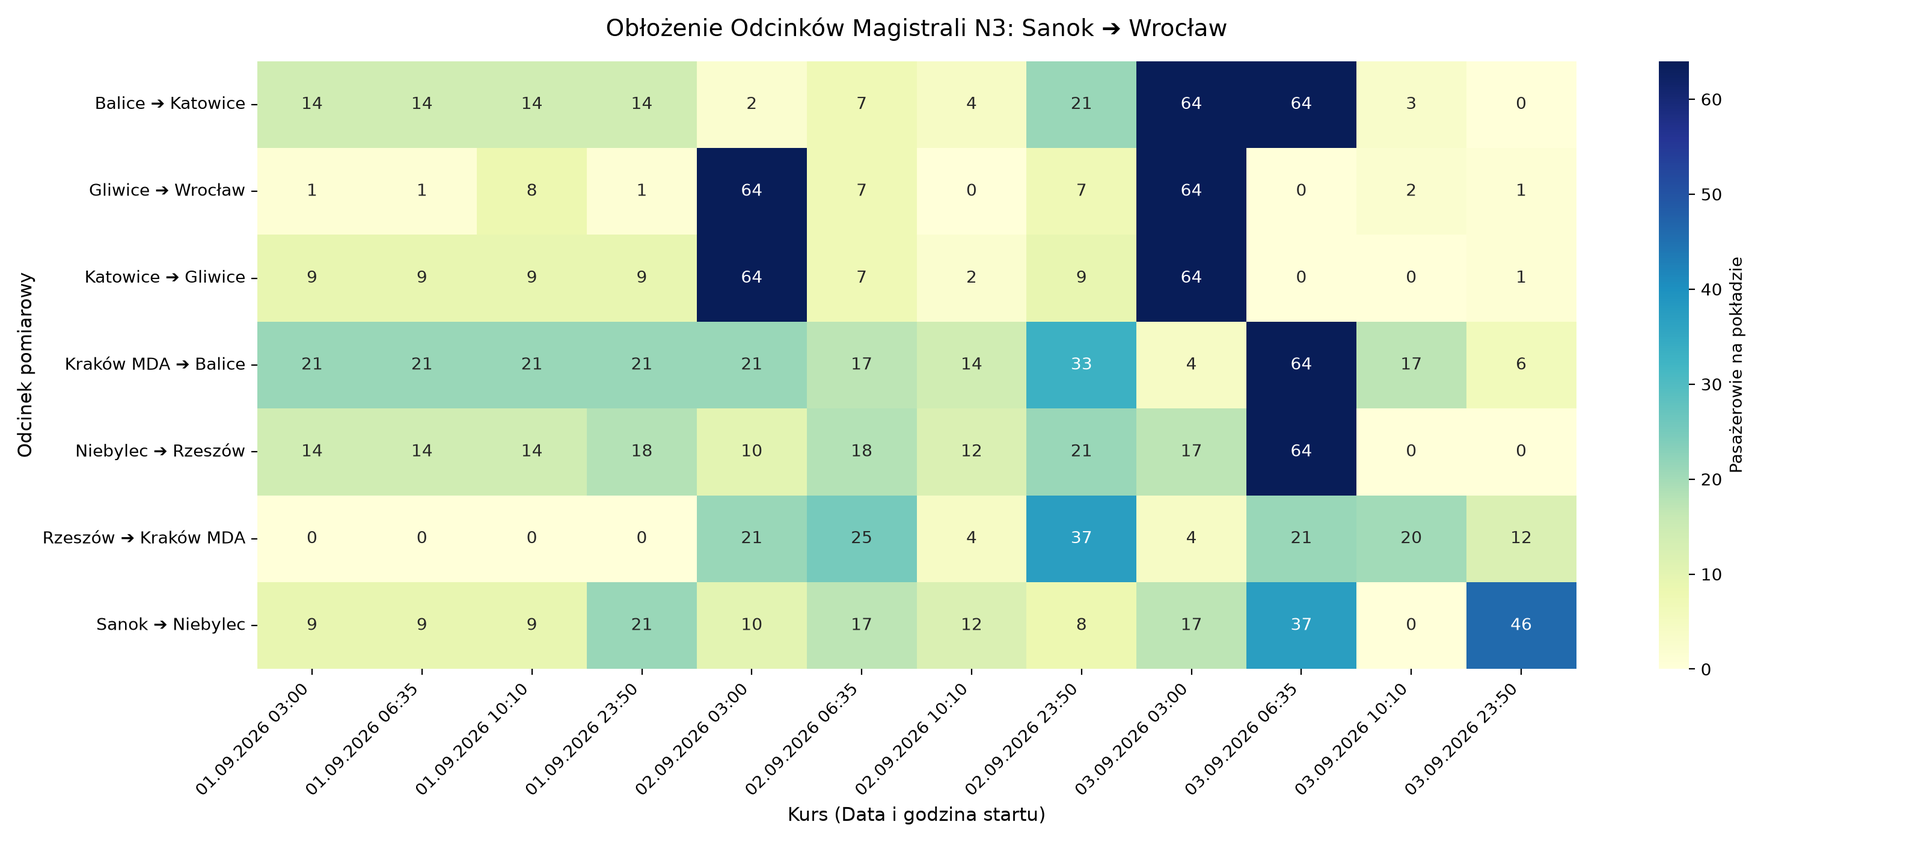
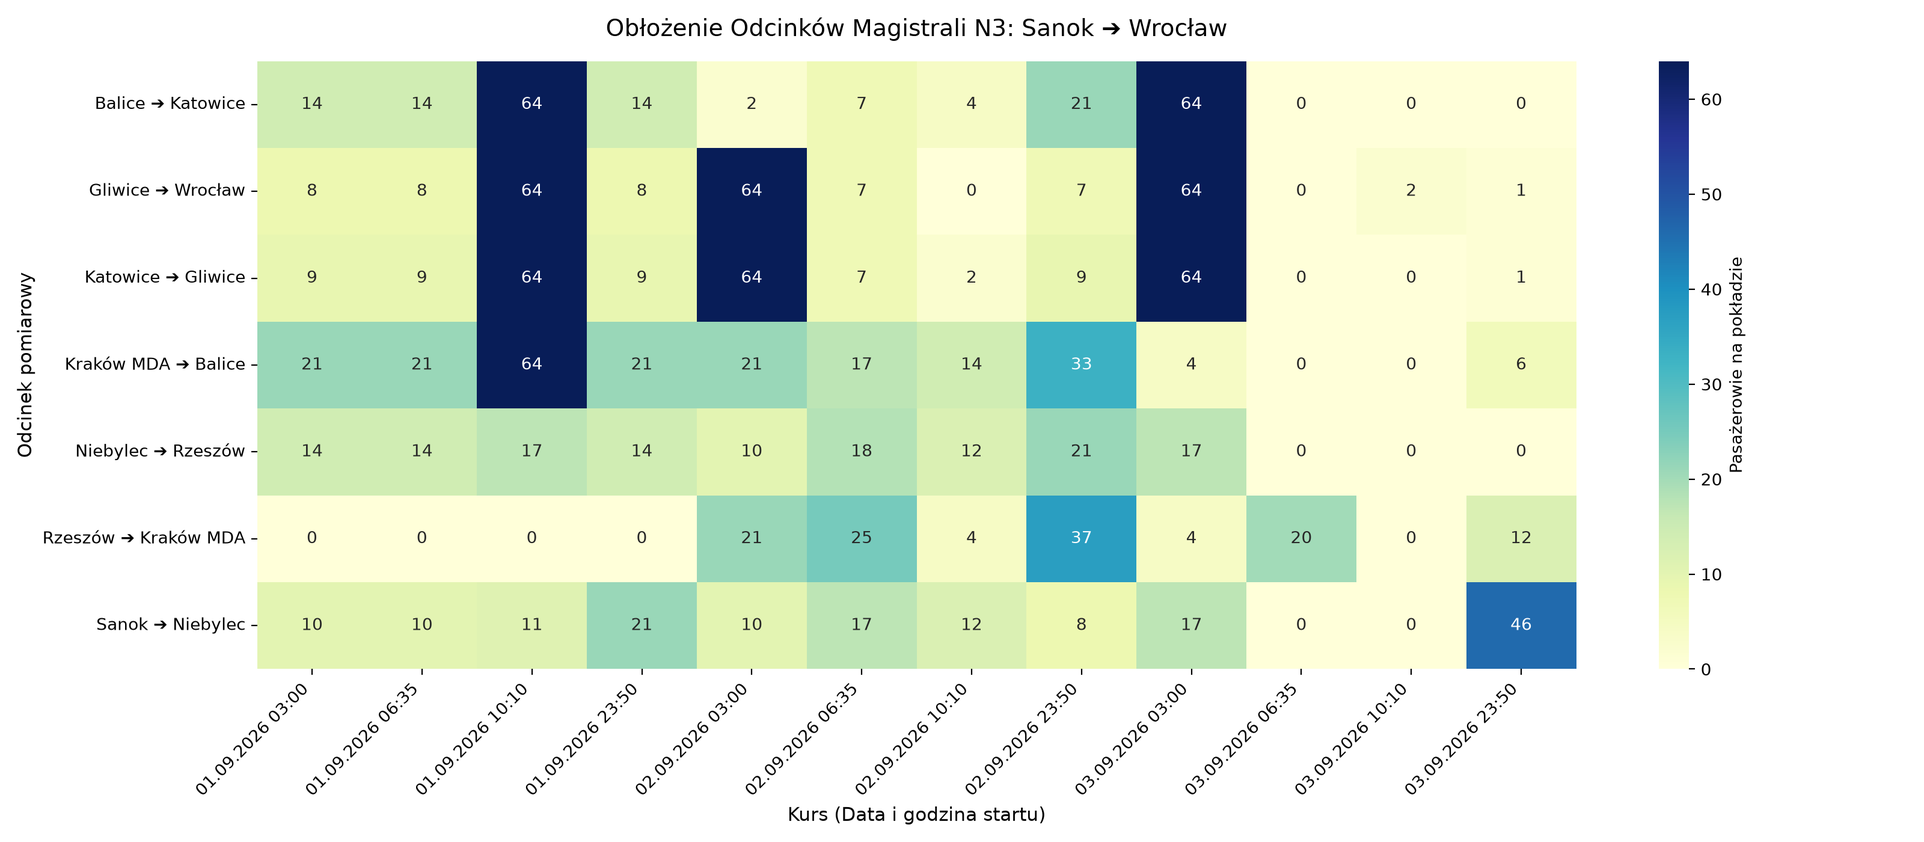
Telemetry Update: 2026-09-01 11:12:48

Changed region(s): [[0.125, 0.0614, 0.375, 0.6143], [0.625, 0.3686, 0.7812, 0.7986], [0.625, 0.0614, 0.7188, 0.1843]]

diff --git a/README.md b/README.md
@@ -1,6 +1,6 @@
 # 🏛 Project Aether: N3 Transit Observatory
 
-> 🕒 **Ostatnia synchronizacja:** `01.09.2026 10:39:30`  
+> 🕒 **Ostatnia synchronizacja:** `01.09.2026 11:12:45`  
 > 📊 **Status magistrali N3 (Sanok ⇄ Wrocław)** | 8 Węzłów | 7 Odcinków Pomiarowych
 
 ## 🧭 Bezpośrednie kursy magistralne (Terminus ➔ Terminus)
@@ -33,199 +33,147 @@
 ## 📈 Analityka Węzłowa: Potoki, Wymiana Pasażerska (Δ) i Estymacja Obrotów
 
 ### 🚌 Sanok ➔ Wrocław: `Poranny I (03:00)` | 📅 Data: **01.09.2026**
-> 💵 **Szacowany obrót kursu:** `1853.30 PLN` | 📊 **Średni Load Factor:** `10.8%`
+> 💵 **Szacowany obrót kursu:** `2118.20 PLN` | 📊 **Średni Load Factor:** `12.1%`
 
 | Odcinek | Odjazd | Cena | Wolne | Na pokładzie | Bilans w węźle (Δ) | Obrót odcinka |
 | :--- | :---: | :---: | :---: | :---: | :---: | :---: |
-| Sanok ➔ Niebylec | ⏰ 03:00 | 23.75 zł | `56` | **9/65** | Start trasy | **213.75 zł** |
-| Niebylec ➔ Rzeszów | ⏰ 04:00 | 14.00 zł | `51` | **14/65** | 📈 +5 | **196.00 zł** |
+| Sanok ➔ Niebylec | ⏰ 03:00 | 23.75 zł | `55` | **10/65** | Start trasy | **237.50 zł** |
+| Niebylec ➔ Rzeszów | ⏰ 04:00 | 14.00 zł | `51` | **14/65** | 📈 +4 | **196.00 zł** |
 | Rzeszów ➔ Kraków MDA | ⏰ 04:40 | 0.00 zł | `B/D` | **0/65** | 📉 -14 | **0.00 zł** |
 | Kraków MDA ➔ Balice | ⏰ 06:55 | 27.00 zł | `44` | **21/65** | 📈 +21 | **567.00 zł** |
 | Balice ➔ Katowice | ⏰ 07:20 | 48.00 zł | `76` | **14/90** | 📉 -7 | **672.00 zł** |
 | Katowice ➔ Gliwice | ⏰ 08:30 | 18.90 zł | `81` | **9/90** | 📉 -5 | **170.10 zł** |
-| Gliwice ➔ Wrocław | ⏰ 09:00 | 34.45 zł | `64` | **1/65** | 📉 -8 | **34.45 zł** |
+| Gliwice ➔ Wrocław | ⏰ 09:00 | 34.45 zł | `82` | **8/90** | 📉 -1 | **275.60 zł** |
 
 ### 🚌 Sanok ➔ Wrocław: `Poranny II (06:35)` | 📅 Data: **01.09.2026**
-> 💵 **Szacowany obrót kursu:** `1853.30 PLN` | 📊 **Średni Load Factor:** `10.8%`
+> 💵 **Szacowany obrót kursu:** `2118.20 PLN` | 📊 **Średni Load Factor:** `12.1%`
 
 | Odcinek | Odjazd | Cena | Wolne | Na pokładzie | Bilans w węźle (Δ) | Obrót odcinka |
 | :--- | :---: | :---: | :---: | :---: | :---: | :---: |
-| Sanok ➔ Niebylec | ⏰ 06:35 | 23.75 zł | `56` | **9/65** | Start trasy | **213.75 zł** |
-| Niebylec ➔ Rzeszów | ⏰ 07:40 | 14.00 zł | `51` | **14/65** | 📈 +5 | **196.00 zł** |
+| Sanok ➔ Niebylec | ⏰ 06:35 | 23.75 zł | `55` | **10/65** | Start trasy | **237.50 zł** |
+| Niebylec ➔ Rzeszów | ⏰ 07:40 | 14.00 zł | `51` | **14/65** | 📈 +4 | **196.00 zł** |
 | Rzeszów ➔ Kraków MDA | ⏰ 08:40 | 0.00 zł | `B/D` | **0/65** | 📉 -14 | **0.00 zł** |
 | Kraków MDA ➔ Balice | ⏰ 10:55 | 27.00 zł | `44` | **21/65** | 📈 +21 | **567.00 zł** |
 | Balice ➔ Katowice | ⏰ 11:30 | 48.00 zł | `76` | **14/90** | 📉 -7 | **672.00 zł** |
 | Katowice ➔ Gliwice | ⏰ 12:30 | 18.90 zł | `81` | **9/90** | 📉 -5 | **170.10 zł** |
-| Gliwice ➔ Wrocław | ⏰ 13:00 | 34.45 zł | `64` | **1/65** | 📉 -8 | **34.45 zł** |
+| Gliwice ➔ Wrocław | ⏰ 13:00 | 34.45 zł | `82` | **8/90** | 📉 -1 | **275.60 zł** |
 
 ### 🚌 Wrocław ➔ Sanok: `Poranny (07:45)` | 📅 Data: **01.09.2026**
-> 💵 **Szacowany obrót kursu:** `3577.65 PLN` | 📊 **Średni Load Factor:** `16.7%`
+> 💵 **Szacowany obrót kursu:** `3481.60 PLN` | 📊 **Średni Load Factor:** `28.1%`
 
 | Odcinek | Odjazd | Cena | Wolne | Na pokładzie | Bilans w węźle (Δ) | Obrót odcinka |
 | :--- | :---: | :---: | :---: | :---: | :---: | :---: |
-| Wrocław ➔ Gliwice | ⏰ 07:45 | 34.45 zł | `67` | **23/90** | Start trasy | **792.35 zł** |
-| Gliwice ➔ Katowice | ⏰ 09:45 | 19.95 zł | `55` | **10/65** | 📉 -13 | **199.50 zł** |
-| Katowice ➔ Balice | ⏰ 10:15 | 45.60 zł | `53` | **12/65** | 📈 +2 | **547.20 zł** |
-| Balice ➔ Kraków MDA | ⏰ 11:05 | 27.00 zł | `48` | **17/65** | 📈 +5 | **459.00 zł** |
-| Kraków MDA ➔ Rzeszów | ⏰ 11:45 | 42.40 zł | `36` | **29/65** | 📈 +12 | **1229.60 zł** |
-| Rzeszów ➔ Niebylec | ⏰ 13:50 | 0.00 zł | `B/D` | **0/65** | 📉 -29 | **0.00 zł** |
-| Niebylec ➔ Sanok | ⏰ 14:35 | 25.00 zł | `51` | **14/65** | 📈 +14 | **350.00 zł** |
+| Wrocław ➔ Gliwice | ⏰ 07:45 | 34.45 zł | `1` | **64/65** | Start trasy | **2204.80 zł** |
+| Gliwice ➔ Katowice | ⏰ 09:45 | 19.95 zł | `1` | **64/65** | ➡ 0 | **1276.80 zł** |
+| Katowice ➔ Balice | ⏰ 10:15 | 0.00 zł | `B/D` | **0/65** | 📉 -64 | **0.00 zł** |
+| Balice ➔ Kraków MDA | ⏰ 11:05 | 0.00 zł | `B/D` | **0/65** | ➡ 0 | **0.00 zł** |
+| Kraków MDA ➔ Rzeszów | ⏰ 11:45 | 0.00 zł | `B/D` | **0/65** | ➡ 0 | **0.00 zł** |
+| Rzeszów ➔ Niebylec | ⏰ 13:50 | 0.00 zł | `B/D` | **0/65** | ➡ 0 | **0.00 zł** |
+| Niebylec ➔ Sanok | ⏰ 14:35 | 0.00 zł | `B/D` | **0/65** | ➡ 0 | **0.00 zł** |
 
 ### 🚌 Sanok ➔ Wrocław: `Południowy (10:10)` | 📅 Data: **01.09.2026**
-> 💵 **Szacowany obrót kursu:** `2094.45 PLN` | 📊 **Średni Load Factor:** `11.9%`
+> 💵 **Szacowany obrót kursu:** `8713.65 PLN` | 📊 **Średni Load Factor:** `62.4%`
 
 | Odcinek | Odjazd | Cena | Wolne | Na pokładzie | Bilans w węźle (Δ) | Obrót odcinka |
 | :--- | :---: | :---: | :---: | :---: | :---: | :---: |
-| Sanok ➔ Niebylec | ⏰ 10:10 | 23.75 zł | `56` | **9/65** | Start trasy | **213.75 zł** |
-| Niebylec ➔ Rzeszów | ⏰ 11:25 | 14.00 zł | `51` | **14/65** | 📈 +5 | **196.00 zł** |
-| Rzeszów ➔ Kraków MDA | ⏰ 12:20 | 0.00 zł | `B/D` | **0/65** | 📉 -14 | **0.00 zł** |
-| Kraków MDA ➔ Balice | ⏰ 14:40 | 27.00 zł | `44` | **21/65** | 📈 +21 | **567.00 zł** |
-| Balice ➔ Katowice | ⏰ 15:15 | 48.00 zł | `76` | **14/90** | 📉 -7 | **672.00 zł** |
-| Katowice ➔ Gliwice | ⏰ 16:25 | 18.90 zł | `81` | **9/90** | 📉 -5 | **170.10 zł** |
-| Gliwice ➔ Wrocław | ⏰ 16:55 | 34.45 zł | `82` | **8/90** | 📉 -1 | **275.60 zł** |
-
-### 🚌 Wrocław ➔ Sanok: `Południowy (12:00)` | 📅 Data: **01.09.2026**
-> 💵 **Szacowany obrót kursu:** `3650.55 PLN` | 📊 **Średni Load Factor:** `18.1%`
-
-| Odcinek | Odjazd | Cena | Wolne | Na pokładzie | Bilans w węźle (Δ) | Obrót odcinka |
-| :--- | :---: | :---: | :---: | :---: | :---: | :---: |
-| Wrocław ➔ Gliwice | ⏰ 12:00 | 34.45 zł | `67` | **23/90** | Start trasy | **792.35 zł** |
-| Gliwice ➔ Katowice | ⏰ 14:00 | 19.95 zł | `55` | **10/65** | 📉 -13 | **199.50 zł** |
-| Katowice ➔ Balice | ⏰ 14:30 | 45.60 zł | `53` | **12/65** | 📈 +2 | **547.20 zł** |
-| Balice ➔ Kraków MDA | ⏰ 15:20 | 27.00 zł | `48` | **17/65** | 📈 +5 | **459.00 zł** |
-| Kraków MDA ➔ Rzeszów | ⏰ 16:15 | 42.40 zł | `36` | **29/65** | 📈 +12 | **1229.60 zł** |
-| Rzeszów ➔ Niebylec | ⏰ 18:40 | 13.30 zł | `77` | **13/90** | 📉 -16 | **172.90 zł** |
-| Niebylec ➔ Sanok | ⏰ 19:20 | 25.00 zł | `80` | **10/90** | 📉 -3 | **250.00 zł** |
-
-### 🚌 Wrocław ➔ Sanok: `Popołudniowy (15:35)` | 📅 Data: **01.09.2026**
-> 💵 **Szacowany obrót kursu:** `2255.45 PLN` | 📊 **Średni Load Factor:** `13.8%`
-
-| Odcinek | Odjazd | Cena | Wolne | Na pokładzie | Bilans w węźle (Δ) | Obrót odcinka |
-| :--- | :---: | :---: | :---: | :---: | :---: | :---: |
-| Wrocław ➔ Gliwice | ⏰ 15:35 | 34.45 zł | `67` | **23/90** | Start trasy | **792.35 zł** |
-| Gliwice ➔ Katowice | ⏰ 17:40 | 19.95 zł | `66` | **24/90** | 📈 +1 | **478.80 zł** |
-| Katowice ➔ Balice | ⏰ 18:15 | 45.60 zł | `64` | **1/65** | 📉 -23 | **45.60 zł** |
-| Balice ➔ Kraków MDA | ⏰ 19:05 | 27.00 zł | `62` | **3/65** | 📈 +2 | **81.00 zł** |
-| Kraków MDA ➔ Rzeszów | ⏰ 19:45 | 42.40 zł | `56` | **9/65** | 📈 +6 | **381.60 zł** |
-| Rzeszów ➔ Niebylec | ⏰ 21:55 | 13.30 zł | `48` | **17/65** | 📈 +8 | **226.10 zł** |
-| Niebylec ➔ Sanok | ⏰ 22:30 | 25.00 zł | `55` | **10/65** | 📉 -7 | **250.00 zł** |
-
-### 🚌 Wrocław ➔ Sanok: `Nocny (22:25)` | 📅 Data: **01.09.2026**
-> 💵 **Szacowany obrót kursu:** `4493.90 PLN` | 📊 **Średni Load Factor:** `27.8%`
-
-| Odcinek | Odjazd | Cena | Wolne | Na pokładzie | Bilans w węźle (Δ) | Obrót odcinka |
-| :--- | :---: | :---: | :---: | :---: | :---: | :---: |
-| Wrocław ➔ Gliwice | ⏰ 22:25 | 34.45 zł | `85` | **5/90** | Start trasy | **172.25 zł** |
-| Gliwice ➔ Katowice | ⏰ 00:20 | 19.95 zł | `54` | **11/65** | 📈 +6 | **219.45 zł** |
-| Katowice ➔ Balice | ⏰ 00:50 | 45.60 zł | `52` | **13/65** | 📈 +2 | **592.80 zł** |
-| Balice ➔ Kraków MDA | ⏰ 01:50 | 27.00 zł | `48` | **17/65** | 📈 +4 | **459.00 zł** |
-| Kraków MDA ➔ Rzeszów | ⏰ 02:20 | 42.40 zł | `32` | **33/65** | 📈 +16 | **1399.20 zł** |
-| Rzeszów ➔ Niebylec | ⏰ 04:30 | 13.30 zł | `1` | **64/65** | 📈 +31 | **851.20 zł** |
-| Niebylec ➔ Sanok | ⏰ 05:00 | 25.00 zł | `33` | **32/65** | 📉 -32 | **800.00 zł** |
+| Sanok ➔ Niebylec | ⏰ 10:10 | 23.75 zł | `54` | **11/65** | Start trasy | **261.25 zł** |
+| Niebylec ➔ Rzeszów | ⏰ 11:25 | 14.00 zł | `48` | **17/65** | 📈 +6 | **238.00 zł** |
+| Rzeszów ➔ Kraków MDA | ⏰ 12:20 | 0.00 zł | `B/D` | **0/65** | 📉 -17 | **0.00 zł** |
+| Kraków MDA ➔ Balice | ⏰ 14:40 | 27.00 zł | `1` | **64/65** | 📈 +64 | **1728.00 zł** |
+| Balice ➔ Katowice | ⏰ 15:15 | 48.00 zł | `1` | **64/65** | ➡ 0 | **3072.00 zł** |
+| Katowice ➔ Gliwice | ⏰ 16:25 | 18.90 zł | `1` | **64/65** | ➡ 0 | **1209.60 zł** |
+| Gliwice ➔ Wrocław | ⏰ 16:55 | 34.45 zł | `1` | **64/65** | ➡ 0 | **2204.80 zł** |
 
 ### 🚌 Sanok ➔ Wrocław: `Nocny (23:50)` | 📅 Data: **01.09.2026**
-> 💵 **Szacowany obrót kursu:** `2194.30 PLN` | 📊 **Średni Load Factor:** `13.3%`
+> 💵 **Szacowany obrót kursu:** `2379.45 PLN` | 📊 **Średni Load Factor:** `13.8%`
 
 | Odcinek | Odjazd | Cena | Wolne | Na pokładzie | Bilans w węźle (Δ) | Obrót odcinka |
 | :--- | :---: | :---: | :---: | :---: | :---: | :---: |
 | Sanok ➔ Niebylec | ⏰ 23:50 | 23.75 zł | `44` | **21/65** | Start trasy | **498.75 zł** |
-| Niebylec ➔ Rzeszów | ⏰ 00:50 | 14.00 zł | `47` | **18/65** | 📉 -3 | **252.00 zł** |
-| Rzeszów ➔ Kraków MDA | ⏰ 01:30 | 0.00 zł | `B/D` | **0/65** | 📉 -18 | **0.00 zł** |
+| Niebylec ➔ Rzeszów | ⏰ 00:50 | 14.00 zł | `51` | **14/65** | 📉 -7 | **196.00 zł** |
+| Rzeszów ➔ Kraków MDA | ⏰ 01:30 | 0.00 zł | `B/D` | **0/65** | 📉 -14 | **0.00 zł** |
 | Kraków MDA ➔ Balice | ⏰ 03:35 | 27.00 zł | `44` | **21/65** | 📈 +21 | **567.00 zł** |
 | Balice ➔ Katowice | ⏰ 04:00 | 48.00 zł | `76` | **14/90** | 📉 -7 | **672.00 zł** |
 | Katowice ➔ Gliwice | ⏰ 04:55 | 18.90 zł | `81` | **9/90** | 📉 -5 | **170.10 zł** |
-| Gliwice ➔ Wrocław | ⏰ 05:22 | 34.45 zł | `64` | **1/65** | 📉 -8 | **34.45 zł** |
+| Gliwice ➔ Wrocław | ⏰ 05:22 | 34.45 zł | `82` | **8/90** | 📉 -1 | **275.60 zł** |
 
-### 🚌 Wrocław ➔ Sanok: `Poranny (07:45)` | 📅 Data: **02.09.2026**
-> 💵 **Szacowany obrót kursu:** `2337.75 PLN` | 📊 **Średni Load Factor:** `11.4%`
+### 🚌 Sanok ➔ Wrocław: `Poranny II (06:35)` | 📅 Data: **03.09.2026**
+> 💵 **Szacowany obrót kursu:** `848.00 PLN` | 📊 **Średni Load Factor:** `4.4%`
+
+| Odcinek | Odjazd | Cena | Wolne | Na pokładzie | Bilans w węźle (Δ) | Obrót odcinka |
+| :--- | :---: | :---: | :---: | :---: | :---: | :---: |
+| Sanok ➔ Niebylec | ⏰ 06:35 | 0.00 zł | `B/D` | **0/65** | Start trasy | **0.00 zł** |
+| Niebylec ➔ Rzeszów | ⏰ 07:40 | 0.00 zł | `B/D` | **0/65** | ➡ 0 | **0.00 zł** |
+| Rzeszów ➔ Kraków MDA | ⏰ 08:40 | 42.40 zł | `45` | **20/65** | 📈 +20 | **848.00 zł** |
+| Kraków MDA ➔ Balice | ⏰ 10:55 | 0.00 zł | `B/D` | **0/65** | 📉 -20 | **0.00 zł** |
+| Balice ➔ Katowice | ⏰ 11:30 | 0.00 zł | `B/D` | **0/65** | ➡ 0 | **0.00 zł** |
+| Katowice ➔ Gliwice | ⏰ 12:30 | 0.00 zł | `B/D` | **0/65** | ➡ 0 | **0.00 zł** |
+| Gliwice ➔ Wrocław | ⏰ 13:00 | 0.00 zł | `B/D` | **0/65** | ➡ 0 | **0.00 zł** |
+
+### 🚌 Wrocław ➔ Sanok: `Poranny (07:45)` | 📅 Data: **03.09.2026**
+> 💵 **Szacowany obrót kursu:** `249.80 PLN` | 📊 **Średni Load Factor:** `1.1%`
 
 | Odcinek | Odjazd | Cena | Wolne | Na pokładzie | Bilans w węźle (Δ) | Obrót odcinka |
 | :--- | :---: | :---: | :---: | :---: | :---: | :---: |
 | Wrocław ➔ Gliwice | ⏰ 07:45 | 34.45 zł | `90` | **0/90** | Start trasy | **0.00 zł** |
-| Gliwice ➔ Katowice | ⏰ 09:45 | 19.95 zł | `87` | **3/90** | 📈 +3 | **59.85 zł** |
-| Katowice ➔ Balice | ⏰ 10:15 | 45.60 zł | `75` | **15/90** | 📈 +12 | **684.00 zł** |
-| Balice ➔ Kraków MDA | ⏰ 11:05 | 27.00 zł | `72` | **18/90** | 📈 +3 | **486.00 zł** |
-| Kraków MDA ➔ Rzeszów | ⏰ 11:45 | 42.40 zł | `72` | **18/90** | ➡ 0 | **763.20 zł** |
-| Rzeszów ➔ Niebylec | ⏰ 13:50 | 13.30 zł | `56` | **9/65** | 📉 -9 | **119.70 zł** |
-| Niebylec ➔ Sanok | ⏰ 14:35 | 25.00 zł | `56` | **9/65** | ➡ 0 | **225.00 zł** |
+| Gliwice ➔ Katowice | ⏰ 09:45 | 19.95 zł | `90` | **0/90** | ➡ 0 | **0.00 zł** |
+| Katowice ➔ Balice | ⏰ 10:15 | 45.60 zł | `89` | **1/90** | 📈 +1 | **45.60 zł** |
+| Balice ➔ Kraków MDA | ⏰ 11:05 | 27.00 zł | `89` | **1/90** | ➡ 0 | **27.00 zł** |
+| Kraków MDA ➔ Rzeszów | ⏰ 11:45 | 42.40 zł | `87` | **3/90** | 📈 +2 | **127.20 zł** |
+| Rzeszów ➔ Niebylec | ⏰ 13:50 | 0.00 zł | `B/D` | **0/65** | 📉 -3 | **0.00 zł** |
+| Niebylec ➔ Sanok | ⏰ 14:35 | 25.00 zł | `63` | **2/65** | 📈 +2 | **50.00 zł** |
 
-### 🚌 Wrocław ➔ Sanok: `Południowy (12:00)` | 📅 Data: **02.09.2026**
-> 💵 **Szacowany obrót kursu:** `3682.00 PLN` | 📊 **Średni Load Factor:** `21.4%`
-
-| Odcinek | Odjazd | Cena | Wolne | Na pokładzie | Bilans w węźle (Δ) | Obrót odcinka |
-| :--- | :---: | :---: | :---: | :---: | :---: | :---: |
-| Wrocław ➔ Gliwice | ⏰ 12:00 | 34.45 zł | `66` | **24/90** | Start trasy | **826.80 zł** |
-| Gliwice ➔ Katowice | ⏰ 14:00 | 19.95 zł | `1` | **64/65** | 📈 +40 | **1276.80 zł** |
-| Katowice ➔ Balice | ⏰ 14:30 | 45.60 zł | `60` | **5/65** | 📉 -59 | **228.00 zł** |
-| Balice ➔ Kraków MDA | ⏰ 15:20 | 27.00 zł | `54` | **11/65** | 📈 +6 | **297.00 zł** |
-| Kraków MDA ➔ Rzeszów | ⏰ 16:15 | 42.40 zł | `49` | **16/65** | 📈 +5 | **678.40 zł** |
-| Rzeszów ➔ Niebylec | ⏰ 18:40 | 0.00 zł | `B/D` | **0/65** | 📉 -16 | **0.00 zł** |
-| Niebylec ➔ Sanok | ⏰ 19:20 | 25.00 zł | `50` | **15/65** | 📈 +15 | **375.00 zł** |
-
-### 🚌 Wrocław ➔ Sanok: `Popołudniowy (15:35)` | 📅 Data: **02.09.2026**
-> 💵 **Szacowany obrót kursu:** `3158.80 PLN` | 📊 **Średni Load Factor:** `24.2%`
+### 🚌 Sanok ➔ Wrocław: `Południowy (10:10)` | 📅 Data: **03.09.2026**
+> 💵 **Szacowany obrót kursu:** `68.90 PLN` | 📊 **Średni Load Factor:** `0.3%`
 
 | Odcinek | Odjazd | Cena | Wolne | Na pokładzie | Bilans w węźle (Δ) | Obrót odcinka |
 | :--- | :---: | :---: | :---: | :---: | :---: | :---: |
-| Wrocław ➔ Gliwice | ⏰ 15:35 | 34.45 zł | `55` | **10/65** | Start trasy | **344.50 zł** |
-| Gliwice ➔ Katowice | ⏰ 17:40 | 19.95 zł | `31` | **34/65** | 📈 +24 | **678.30 zł** |
-| Katowice ➔ Balice | ⏰ 18:15 | 45.60 zł | `54` | **11/65** | 📉 -23 | **501.60 zł** |
-| Balice ➔ Kraków MDA | ⏰ 19:05 | 27.00 zł | `31` | **34/65** | 📈 +23 | **918.00 zł** |
-| Kraków MDA ➔ Rzeszów | ⏰ 19:45 | 42.40 zł | `54` | **11/65** | 📉 -23 | **466.40 zł** |
-| Rzeszów ➔ Niebylec | ⏰ 21:55 | 0.00 zł | `B/D` | **0/65** | 📉 -11 | **0.00 zł** |
-| Niebylec ➔ Sanok | ⏰ 22:30 | 25.00 zł | `55` | **10/65** | 📈 +10 | **250.00 zł** |
+| Sanok ➔ Niebylec | ⏰ 10:10 | 0.00 zł | `B/D` | **0/65** | Start trasy | **0.00 zł** |
+| Niebylec ➔ Rzeszów | ⏰ 11:25 | 0.00 zł | `B/D` | **0/65** | ➡ 0 | **0.00 zł** |
+| Rzeszów ➔ Kraków MDA | ⏰ 12:20 | 0.00 zł | `B/D` | **0/65** | ➡ 0 | **0.00 zł** |
+| Kraków MDA ➔ Balice | ⏰ 14:40 | 0.00 zł | `B/D` | **0/65** | ➡ 0 | **0.00 zł** |
+| Balice ➔ Katowice | ⏰ 15:15 | 0.00 zł | `B/D` | **0/65** | ➡ 0 | **0.00 zł** |
+| Katowice ➔ Gliwice | ⏰ 16:25 | 18.90 zł | `90` | **0/90** | ➡ 0 | **0.00 zł** |
+| Gliwice ➔ Wrocław | ⏰ 16:55 | 34.45 zł | `88` | **2/90** | 📈 +2 | **68.90 zł** |
 
-### 🚌 Wrocław ➔ Sanok: `Nocny (22:25)` | 📅 Data: **02.09.2026**
-> 💵 **Szacowany obrót kursu:** `5092.25 PLN` | 📊 **Średni Load Factor:** `27.9%`
-
-| Odcinek | Odjazd | Cena | Wolne | Na pokładzie | Bilans w węźle (Δ) | Obrót odcinka |
-| :--- | :---: | :---: | :---: | :---: | :---: | :---: |
-| Wrocław ➔ Gliwice | ⏰ 22:25 | 34.45 zł | `84` | **6/90** | Start trasy | **206.70 zł** |
-| Gliwice ➔ Katowice | ⏰ 00:20 | 19.95 zł | `81` | **9/90** | 📈 +3 | **179.55 zł** |
-| Katowice ➔ Balice | ⏰ 00:50 | 45.60 zł | `80` | **10/90** | 📈 +1 | **456.00 zł** |
-| Balice ➔ Kraków MDA | ⏰ 01:50 | 27.00 zł | `70` | **20/90** | 📈 +10 | **540.00 zł** |
-| Kraków MDA ➔ Rzeszów | ⏰ 02:20 | 42.40 zł | `1` | **64/65** | 📈 +44 | **2713.60 zł** |
-| Rzeszów ➔ Niebylec | ⏰ 04:30 | 13.30 zł | `7` | **58/65** | 📉 -6 | **771.40 zł** |
-| Niebylec ➔ Sanok | ⏰ 05:00 | 25.00 zł | `56` | **9/65** | 📉 -49 | **225.00 zł** |
-
-### 🚌 Sanok ➔ Wrocław: `Poranny I (03:00)` | 📅 Data: **03.09.2026**
-> 💵 **Szacowany obrót kursu:** `7405.75 PLN` | 📊 **Średni Load Factor:** `51.4%`
+### 🚌 Wrocław ➔ Sanok: `Południowy (12:00)` | 📅 Data: **03.09.2026**
+> 💵 **Szacowany obrót kursu:** `3273.95 PLN` | 📊 **Średni Load Factor:** `23.1%`
 
 | Odcinek | Odjazd | Cena | Wolne | Na pokładzie | Bilans w węźle (Δ) | Obrót odcinka |
 | :--- | :---: | :---: | :---: | :---: | :---: | :---: |
-| Sanok ➔ Niebylec | ⏰ 03:00 | 23.75 zł | `48` | **17/65** | Start trasy | **403.75 zł** |
-| Niebylec ➔ Rzeszów | ⏰ 04:00 | 14.00 zł | `48` | **17/65** | ➡ 0 | **238.00 zł** |
-| Rzeszów ➔ Kraków MDA | ⏰ 04:40 | 42.40 zł | `61` | **4/65** | 📉 -13 | **169.60 zł** |
-| Kraków MDA ➔ Balice | ⏰ 06:55 | 27.00 zł | `61` | **4/65** | ➡ 0 | **108.00 zł** |
-| Balice ➔ Katowice | ⏰ 07:20 | 48.00 zł | `1` | **64/65** | 📈 +60 | **3072.00 zł** |
-| Katowice ➔ Gliwice | ⏰ 08:30 | 18.90 zł | `1` | **64/65** | ➡ 0 | **1209.60 zł** |
-| Gliwice ➔ Wrocław | ⏰ 09:00 | 34.45 zł | `1` | **64/65** | ➡ 0 | **2204.80 zł** |
+| Wrocław ➔ Gliwice | ⏰ 12:00 | 34.45 zł | `1` | **64/65** | Start trasy | **2204.80 zł** |
+| Gliwice ➔ Katowice | ⏰ 14:00 | 19.95 zł | `64` | **1/65** | 📉 -63 | **19.95 zł** |
+| Katowice ➔ Balice | ⏰ 14:30 | 45.60 zł | `62` | **3/65** | 📈 +2 | **136.80 zł** |
+| Balice ➔ Kraków MDA | ⏰ 15:20 | 27.00 zł | `59` | **6/65** | 📈 +3 | **162.00 zł** |
+| Kraków MDA ➔ Rzeszów | ⏰ 16:15 | 42.40 zł | `57` | **8/65** | 📈 +2 | **339.20 zł** |
+| Rzeszów ➔ Niebylec | ⏰ 18:40 | 13.30 zł | `51` | **14/65** | 📈 +6 | **186.20 zł** |
+| Niebylec ➔ Sanok | ⏰ 19:20 | 25.00 zł | `56` | **9/65** | 📉 -5 | **225.00 zł** |
 
-### 🚌 Sanok ➔ Wrocław: `Poranny II (06:35)` | 📅 Data: **03.09.2026**
-> 💵 **Szacowany obrót kursu:** `7465.15 PLN` | 📊 **Średni Load Factor:** `54.9%`
-
-| Odcinek | Odjazd | Cena | Wolne | Na pokładzie | Bilans w węźle (Δ) | Obrót odcinka |
-| :--- | :---: | :---: | :---: | :---: | :---: | :---: |
-| Sanok ➔ Niebylec | ⏰ 06:35 | 23.75 zł | `28` | **37/65** | Start trasy | **878.75 zł** |
-| Niebylec ➔ Rzeszów | ⏰ 07:40 | 14.00 zł | `1` | **64/65** | 📈 +27 | **896.00 zł** |
-| Rzeszów ➔ Kraków MDA | ⏰ 08:40 | 42.40 zł | `44` | **21/65** | 📉 -43 | **890.40 zł** |
-| Kraków MDA ➔ Balice | ⏰ 10:55 | 27.00 zł | `1` | **64/65** | 📈 +43 | **1728.00 zł** |
-| Balice ➔ Katowice | ⏰ 11:30 | 48.00 zł | `1` | **64/65** | ➡ 0 | **3072.00 zł** |
-| Katowice ➔ Gliwice | ⏰ 12:30 | 0.00 zł | `B/D` | **0/65** | 📉 -64 | **0.00 zł** |
-| Gliwice ➔ Wrocław | ⏰ 13:00 | 0.00 zł | `B/D` | **0/65** | ➡ 0 | **0.00 zł** |
-
-### 🚌 Sanok ➔ Wrocław: `Nocny (23:50)` | 📅 Data: **03.09.2026**
-> 💵 **Szacowany obrót kursu:** `1816.65 PLN` | 📊 **Średni Load Factor:** `10.5%`
+### 🚌 Wrocław ➔ Sanok: `Popołudniowy (15:35)` | 📅 Data: **03.09.2026**
+> 💵 **Szacowany obrót kursu:** `2246.35 PLN` | 📊 **Średni Load Factor:** `19.6%`
 
 | Odcinek | Odjazd | Cena | Wolne | Na pokładzie | Bilans w węźle (Δ) | Obrót odcinka |
 | :--- | :---: | :---: | :---: | :---: | :---: | :---: |
-| Sanok ➔ Niebylec | ⏰ 23:50 | 23.75 zł | `19` | **46/65** | Start trasy | **1092.50 zł** |
-| Niebylec ➔ Rzeszów | ⏰ 00:50 | 0.00 zł | `B/D` | **0/65** | 📉 -46 | **0.00 zł** |
-| Rzeszów ➔ Kraków MDA | ⏰ 01:30 | 42.40 zł | `53` | **12/65** | 📈 +12 | **508.80 zł** |
-| Kraków MDA ➔ Balice | ⏰ 03:35 | 27.00 zł | `59` | **6/65** | 📉 -6 | **162.00 zł** |
-| Balice ➔ Katowice | ⏰ 04:00 | 0.00 zł | `B/D` | **0/65** | 📉 -6 | **0.00 zł** |
-| Katowice ➔ Gliwice | ⏰ 04:55 | 18.90 zł | `64` | **1/65** | 📈 +1 | **18.90 zł** |
-| Gliwice ➔ Wrocław | ⏰ 05:22 | 34.45 zł | `89` | **1/90** | ➡ 0 | **34.45 zł** |
+| Wrocław ➔ Gliwice | ⏰ 15:35 | 34.45 zł | `61` | **4/65** | Start trasy | **137.80 zł** |
+| Gliwice ➔ Katowice | ⏰ 17:40 | 19.95 zł | `60` | **5/65** | 📈 +1 | **99.75 zł** |
+| Katowice ➔ Balice | ⏰ 18:15 | 45.60 zł | `59` | **6/65** | 📈 +1 | **273.60 zł** |
+| Balice ➔ Kraków MDA | ⏰ 19:05 | 27.00 zł | `54` | **11/65** | 📈 +5 | **297.00 zł** |
+| Kraków MDA ➔ Rzeszów | ⏰ 19:45 | 42.40 zł | `50` | **15/65** | 📈 +4 | **636.00 zł** |
+| Rzeszów ➔ Niebylec | ⏰ 21:55 | 13.30 zł | `31` | **34/65** | 📈 +19 | **452.20 zł** |
+| Niebylec ➔ Sanok | ⏰ 22:30 | 25.00 zł | `51` | **14/65** | 📉 -20 | **350.00 zł** |
+
+### 🚌 Wrocław ➔ Sanok: `Nocny (22:25)` | 📅 Data: **03.09.2026**
+> 💵 **Szacowany obrót kursu:** `2893.20 PLN` | 📊 **Średni Load Factor:** `16.2%`
+
+| Odcinek | Odjazd | Cena | Wolne | Na pokładzie | Bilans w węźle (Δ) | Obrót odcinka |
+| :--- | :---: | :---: | :---: | :---: | :---: | :---: |
+| Wrocław ➔ Gliwice | ⏰ 22:25 | 34.45 zł | `88` | **2/90** | Start trasy | **68.90 zł** |
+| Gliwice ➔ Katowice | ⏰ 00:20 | 19.95 zł | `84` | **6/90** | 📈 +4 | **119.70 zł** |
+| Katowice ➔ Balice | ⏰ 00:50 | 45.60 zł | `74` | **16/90** | 📈 +10 | **729.60 zł** |
+| Balice ➔ Kraków MDA | ⏰ 01:50 | 27.00 zł | `70` | **20/90** | 📈 +4 | **540.00 zł** |
+| Kraków MDA ➔ Rzeszów | ⏰ 02:20 | 42.40 zł | `68` | **22/90** | 📈 +2 | **932.80 zł** |
+| Rzeszów ➔ Niebylec | ⏰ 04:30 | 13.30 zł | `31` | **34/65** | 📈 +12 | **452.20 zł** |
+| Niebylec ➔ Sanok | ⏰ 05:00 | 25.00 zł | `63` | **2/65** | 📉 -32 | **50.00 zł** |
 
 
 ---
